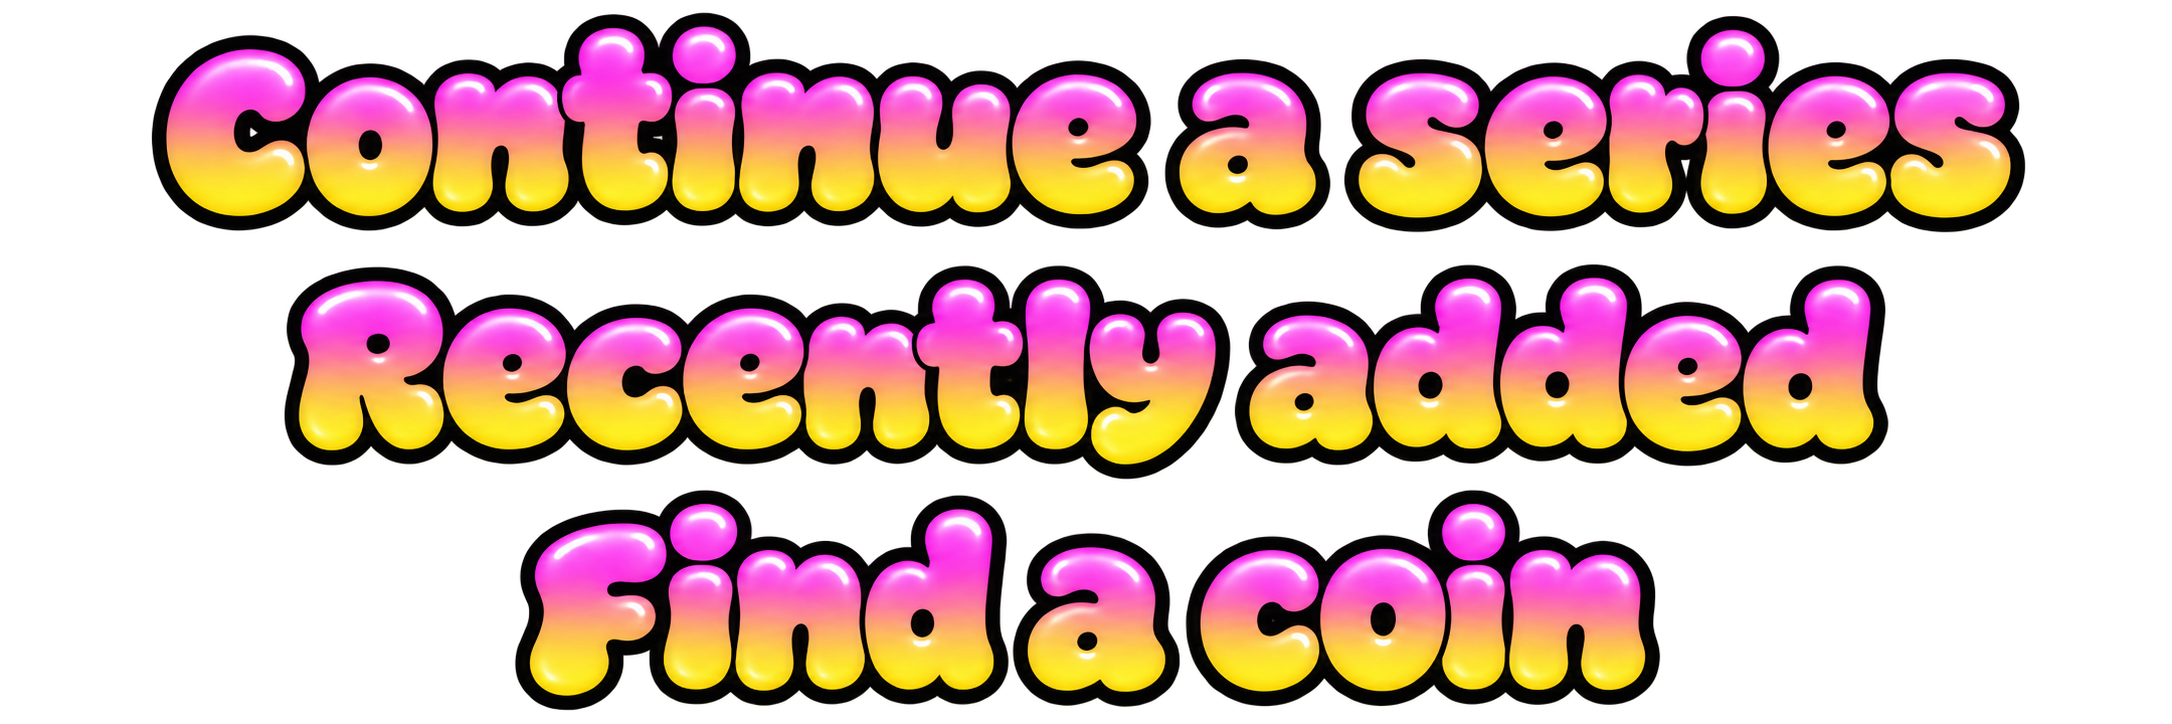
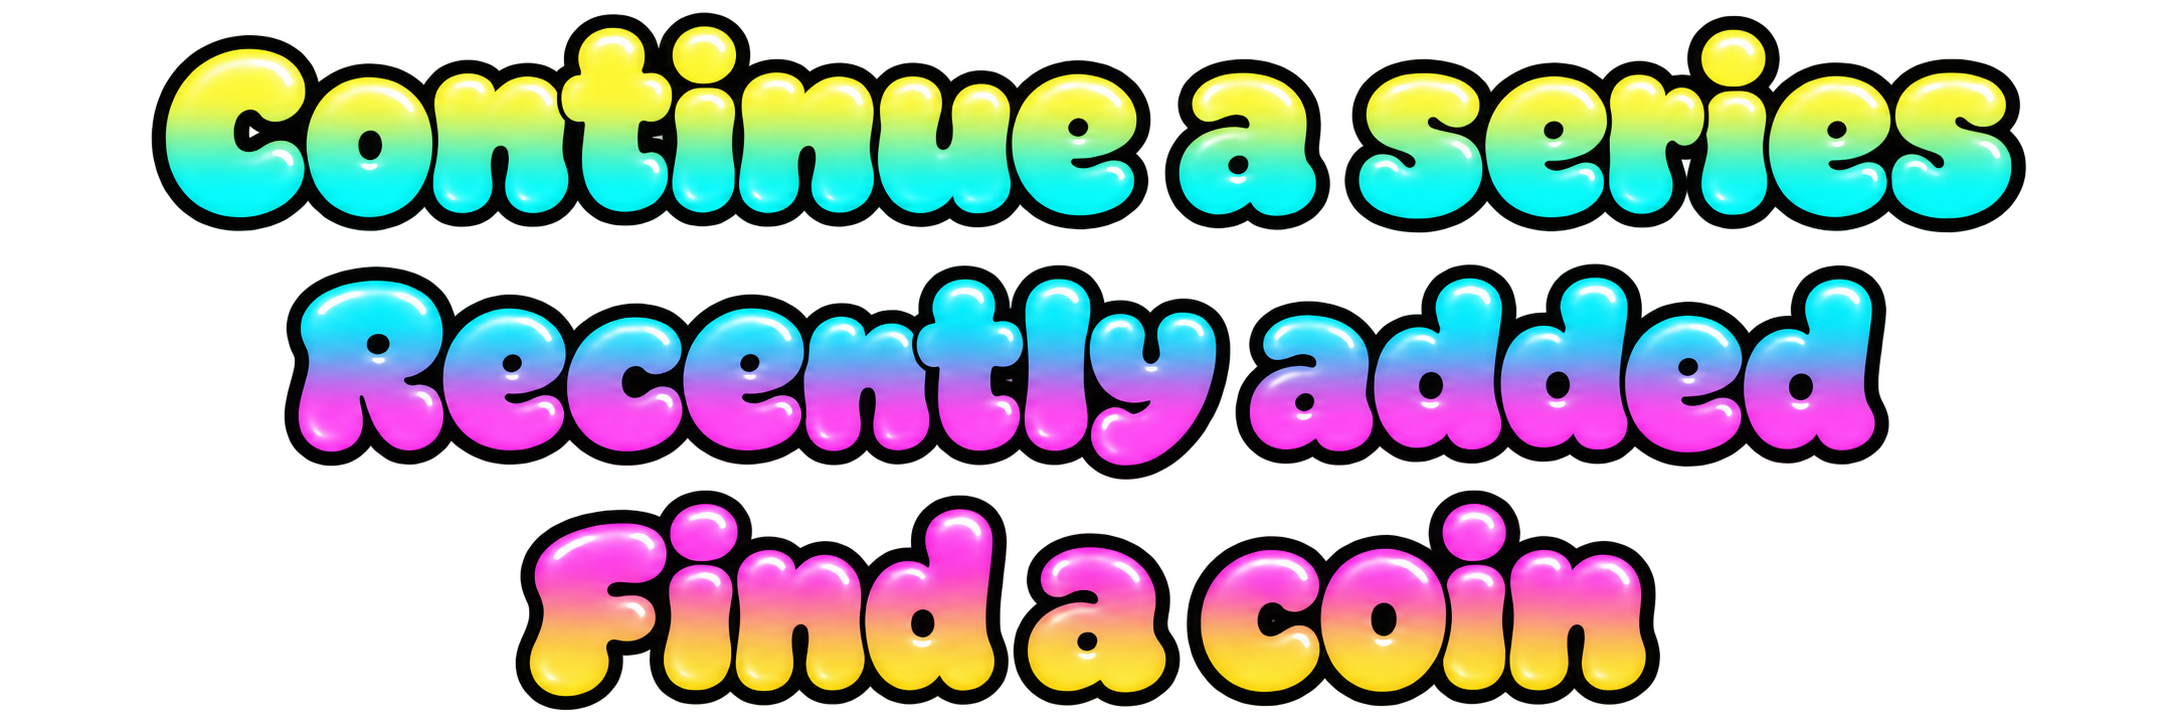
Restore calm coin labels and unify Pocket Mint visual styles v0.14.29

diff --git a/public/index.html b/public/index.html
@@ -184,7 +184,7 @@
     <section id="collectionView" class="view"><div class="sectionHead"><h2 id="collectionTitle">Collection</h2></div><div class="segmented collectionTabs"><button data-mintfilter="owned" class="on">All</button><button data-mintfilter="favourite">Favourites</button><button data-mintfilter="duplicates">Duplicates</button></div><input id="collectionSearch" class="search" type="search" placeholder="Search collection" aria-label="Search collection"><div class="listMeta"><span id="collectionCount">0 coins</span><button type="button" class="textButton">Sort</button></div><div id="myMintList" class="coinList coinGrid"></div></section>
 
     <section id="helpView" class="view pm-page"><div class="sectionHead"><h2>Help &amp; feedback</h2></div><div class="menuCard"><button type="button" id="helpConditionGuide"><span aria-hidden="true">⌕</span><b>Coin Condition Guide</b><i aria-hidden="true">›</i></button></div><p class="muted">Browse Australian coin grades and compare conditions before recording your own estimate.</p></section>
-    <section id="myMintView" class="view"><div class="sectionHead"><h2><span class="sr-only">My Mint</span><svg class="pm-title-art pm-title-mint" viewBox="361 297 812 223" aria-hidden="true" focusable="false"><image href="artwork/headings/neon-titles.png" width="1536" height="1024"/></svg></h2></div><div class="menuCard"><button data-open-collection="owned"><span class="pm-menu-icon pm-icon-owned" aria-hidden="true"></span><b>My collection</b><i>›</i></button><button data-nav="wishlistView"><span class="pm-menu-icon pm-icon-wishlist" aria-hidden="true"></span><b>Wishlist</b><i>›</i></button><button data-open-collection="favourite"><span class="pm-menu-icon pm-icon-favourites" aria-hidden="true"></span><b>Favourites</b><i>›</i></button><button data-open-collection="duplicates"><span class="pm-menu-icon pm-icon-duplicates" aria-hidden="true"></span><b>Duplicates</b><i>›</i></button><button data-nav="statsView"><span class="pm-menu-icon pm-icon-stats" aria-hidden="true"></span><b>Stats</b><i>›</i></button><button disabled><span class="pm-menu-icon pm-icon-swaps" aria-hidden="true"></span><b>Swaps</b><small>Later</small><i>›</i></button></div><h3 class="menuHeading">Pocket Mint</h3><div class="menuCard"><button data-nav="settingsView"><span class="pm-menu-icon pm-icon-settings" aria-hidden="true"></span><b>Settings</b><i>›</i></button><button data-nav="helpView"><span class="pm-menu-icon pm-icon-help" aria-hidden="true"></span><b>Help &amp; feedback</b><i>›</i></button><button data-static-page="About Pocket Mint"><span class="pm-menu-icon pm-icon-about" aria-hidden="true"></span><b>About Pocket Mint</b><i>›</i></button></div><p class="versionNote">Pocket Mint v0.14.28</p></section>
+    <section id="myMintView" class="view"><div class="sectionHead"><h2><span class="sr-only">My Mint</span><svg class="pm-title-art pm-title-mint" viewBox="361 297 812 223" aria-hidden="true" focusable="false"><image href="artwork/headings/neon-titles.png" width="1536" height="1024"/></svg></h2></div><div class="menuCard"><button data-open-collection="owned"><span class="pm-menu-icon pm-icon-owned" aria-hidden="true"></span><b>My collection</b><i>›</i></button><button data-nav="wishlistView"><span class="pm-menu-icon pm-icon-wishlist" aria-hidden="true"></span><b>Wishlist</b><i>›</i></button><button data-open-collection="favourite"><span class="pm-menu-icon pm-icon-favourites" aria-hidden="true"></span><b>Favourites</b><i>›</i></button><button data-open-collection="duplicates"><span class="pm-menu-icon pm-icon-duplicates" aria-hidden="true"></span><b>Duplicates</b><i>›</i></button><button data-nav="statsView"><span class="pm-menu-icon pm-icon-stats" aria-hidden="true"></span><b>Stats</b><i>›</i></button><button disabled><span class="pm-menu-icon pm-icon-swaps" aria-hidden="true"></span><b>Swaps</b><small>Later</small><i>›</i></button></div><h3 class="menuHeading">Pocket Mint</h3><div class="menuCard"><button data-nav="settingsView"><span class="pm-menu-icon pm-icon-settings" aria-hidden="true"></span><b>Settings</b><i>›</i></button><button data-nav="helpView"><span class="pm-menu-icon pm-icon-help" aria-hidden="true"></span><b>Help &amp; feedback</b><i>›</i></button><button data-static-page="About Pocket Mint"><span class="pm-menu-icon pm-icon-about" aria-hidden="true"></span><b>About Pocket Mint</b><i>›</i></button></div><p class="versionNote">Pocket Mint v0.14.29</p></section>
 
     <section id="settingsView" class="view">
       <div class="sectionHead"><div><div class="eyebrow">PERSONALISE &amp; PORTABILITY</div><h2>Settings</h2></div></div>

diff --git a/public/pm-headings.css b/public/pm-headings.css
@@ -30,30 +30,40 @@
 :root body .view:not(#homeView) .sectionHead{border-bottom:0;box-shadow:none}
 :root body .menuCard button{grid-template-columns:38px 1fr auto auto}
 
-/* Dynamic catalogue names and section headings share the logo concept without
-   rasterising catalogue text or adding another image library. */
+/* Neon is reserved for navigation and section headings. Coin information and
+   names keep their established dark, rounded typography on cream cards. */
+:root{--pm-heading-pink:#ff36e9;--pm-heading-yellow:#fffa55;--pm-heading-aqua:#00e9e9;--pm-heading-gold:#ffcf42}
 @supports ((background-clip:text) or (-webkit-background-clip:text)) {
-  :root body :is(.view,#coinDialog,#conditionGuide,#seriesCelebration) :is(h2,h3,h4,.findHero b,.pm-series-copy>b):not(:has(.pm-title-art)) {
-    --pm-heading-start:#ff36e9;--pm-heading-end:#ffcf42;
+  :root body :is(.view,#conditionGuide) :is(.sectionHead h2,.sectionTitle h3,.menuHeading,.statsAlbums>h3,.cg-header h2):not(:has(.pm-title-art)) {
+    --pm-heading-start:var(--pm-heading-pink);--pm-heading-end:var(--pm-heading-gold);
     background-image:linear-gradient(180deg,var(--pm-heading-start) 12%,var(--pm-heading-end) 90%);
     background-clip:text;-webkit-background-clip:text;color:transparent;
     -webkit-text-stroke:.55px #070914;paint-order:stroke fill;text-shadow:none;
   }
-  :root body :is(#myMintView,#conditionGuide) :is(h2,h3,h4,.findHero b,.pm-series-copy>b):not(:has(.pm-title-art)) {
-    --pm-heading-start:#fffa55;--pm-heading-end:#00e9e9;
+  :root body :is(#myMintView,#statsView,#conditionGuide) :is(.sectionHead h2,.menuHeading,.statsAlbums>h3,.cg-header h2):not(:has(.pm-title-art)) {
+    --pm-heading-start:var(--pm-heading-yellow);--pm-heading-end:var(--pm-heading-aqua);
   }
-  :root body .view .coinCard .coinCopy h3 {
-    -webkit-text-stroke:.45px #070914;line-height:1.4;padding-block:2px;
+  :root body :is(#collectionView,#helpView,#seriesView) .sectionHead h2:not(:has(.pm-title-art)) {
+    --pm-heading-start:var(--pm-heading-aqua);--pm-heading-end:var(--pm-heading-pink);
+  }
+  :root body :is(#wishlistView,#milestonesView,#settingsView) .sectionHead h2:not(:has(.pm-title-art)) {
+    --pm-heading-start:var(--pm-heading-pink);--pm-heading-end:var(--pm-heading-aqua);
   }
 }
+:root body .view:is(#homeView,#findView,#collectionView,#wishlistView,#seriesView) .coinCard .coinCopy h3,
+:root body #coinDialog .pm-detail-heading h2 {
+  background:none;color:#18192f;-webkit-text-stroke:0;text-shadow:none;
+  font-family:'Pocket Mint Bubble',ui-rounded,system-ui,sans-serif;font-weight:400;line-height:1.3;
+}
+:root body .pm-series-copy>b {background:none;color:#18192f;-webkit-text-stroke:0;text-shadow:none;font-family:inherit;font-weight:700;line-height:1.3}
 @media(forced-colors:active){
-  :root body :is(.view,#coinDialog,#conditionGuide,#seriesCelebration) :is(h2,h3,h4,.findHero b,.pm-series-copy>b):not(:has(.pm-title-art)){
+  :root body :is(.view,#conditionGuide) :is(.sectionHead h2,.sectionTitle h3,.menuHeading,.statsAlbums>h3,.cg-header h2):not(:has(.pm-title-art)){
     background:none;color:CanvasText;-webkit-text-stroke:0;
   }
 }
 
-:root body :is(.findHero b,.pm-series-copy>b){font-family:"Pocket Mint Bubble",ui-rounded,system-ui,sans-serif;font-weight:400;line-height:1.4}
-
 .pm-title-continue{width:225px;max-width:100%}.pm-title-recent{width:190px;max-width:100%}.pm-title-home-find{width:140px;max-width:100%}
 :root body #homeView .sectionTitle h3{min-width:0;flex:1;margin-bottom:0}
 @media(max-width:380px){.pm-title-continue{width:200px}.pm-title-recent{width:175px}.pm-title-home-find{width:125px}}
+
+:root body .view:is(#homeView,#findView,#collectionView,#wishlistView,#seriesView) .coinCard .coinCopy .meta{color:#54456b}

diff --git a/public/sw.js b/public/sw.js
@@ -1,4 +1,4 @@
-const CACHE = "pocket-mint-v0.14.28-neon-headings";
+const CACHE = "pocket-mint-v0.14.29-neon-headings";
 const STATIC = ["./artwork/headings/section-titles.png","./pm-headings.css","./artwork/headings/neon-titles.png","./fonts/coiny-latin-400.woff2","./fonts/coiny-LICENSE.txt","./frames/icon-stats.svg","./frames/icon-swaps.svg","./frames/icon-settings.svg","./frames/icon-help.svg","./frames/icon-about.svg","./fonts/short-stack-latin-400.woff2", "./fonts/short-stack-LICENSE.txt", "./frames/header-scribble.svg", "./", "./index.html", "./styles.css", "./progress.css", "./identify.css", "./pm-visual.css", "./pm-frames.css", "./frames/album-wobble.svg", "./frames/coin-wobble.svg", "./frames/icon-duplicates.svg", "./frames/icon-favourites.svg", "./frames/icon-owned.svg", "./frames/icon-wishlist.svg", "./frames/neon-wobble.svg", "./frames/plaque-wobble.svg", "./condition-data.js", "./condition-guide.js", "./condition-editor.js", "./condition-guide.css", "./series.js", "./camera-entry.js", "./auto-coin-photo.js", "./coin-photo-editor.js", "./coin-photo-editor.css", "./pm-stars.svg", "./pm-crescent.svg", "./pm-wordmark.webp", "./characters/grim-companion.webp", "./characters/grim-walk.webp", "./characters/grim-walk-b.webp", "./characters/grim-inspect.webp", "./characters/grim-walk-sheet.webp", "./characters/grim-clue-sheet.webp", "./characters/noxel-companion.webp", "./characters/noxel-scuttle.webp", "./characters/noxel-scuttle-b.webp", "./characters/noxel-peek.webp", "./characters/noxel-walk-sheet.webp", "./characters/noxel-discovery-sheet.webp", "./characters/grim-noxel-high-five.webp", "./companions.js", "./app.js", "./identification-report.js", "./progress.js", "./identify.js", "./batch-identify.js", "./batch-identification.js", "./batch-detection.js", "./batch-identify.css", "./catalogue.json", "./catalogue-v2.json", "./manifest.webmanifest", "./manifest-seal.webmanifest", "./manifest-spiral.webmanifest", "./manifest-character.webmanifest", "./icon-192.png", "./icon-512.png", "./icons/seal-192.png", "./icons/seal-512.png", "./icons/spiral-192.png", "./icons/character-192.png", "./icons/character-512.png"];
 
 importScripts("./condition-data.js");

diff --git a/public/pm-frames.css b/public/pm-frames.css
@@ -448,3 +448,18 @@ body .view .menuCard button {
   border-width:18px;border-image-repeat:stretch round;border-image-slice:9% 15%;
   background:linear-gradient(150deg,#fff0d5,#ead7b4);background-clip:padding-box;
 }
+
+/* A single coin-card frame across Home, Browse, Collection, Wishlist and Series.
+   Preserve Home's drawn asset and adapt it to each existing card footprint. */
+:root body .view .coinCard {
+  position:relative;isolation:isolate;background:transparent;border-color:transparent;
+  box-shadow:none;overflow:visible;
+}
+:root body .view .coinCard::before {
+  content:'';position:absolute;inset:0;z-index:-1;pointer-events:none;
+  border:0;border-radius:0;border-image:none;
+  background:url('frames/coin-wobble.svg') center / 100% 100% no-repeat;
+  filter:drop-shadow(0 2px 0 #8d673d60);
+}
+/* Companions may visit a coin without adding a second, rectangular neon frame. */
+:root body .view .coinCard.pm-companion-spotlight {outline:none;box-shadow:none}

diff --git a/public/app.js b/public/app.js
@@ -1,6 +1,6 @@
 const DB_NAME = "PocketMintPhase0";
 const DB_VERSION = 3;
-const APP_VERSION = "0.14.28";
+const APP_VERSION = "0.14.29";
 const VIEW_IDS = new Set(["homeView", "findView", "wishlistView", "statsView", "collectionView", "myMintView", "settingsView", "seriesView", "milestonesView", "helpView"]);
 const APP_ICON_KEY = "pocketMintAppIcon";
 const APP_ICONS = {

diff --git a/docs/NEON_HEADINGS.md b/docs/NEON_HEADINGS.md
@@ -11,3 +11,7 @@ No Identify, camera, catalogue, condition storage, or batch recognition changes 
 Extend the two-colour rounded heading concept to Home section titles, Find call-to-action title, dynamic coin names and supporting headings. CSS text remains accessible/searchable, with black stroke, forced-colour fallback and unchanged sizes. Main title artwork remains unchanged.
 
 Fix series drawings moving/fading when a companion performs an idle notice: exclude series-card ::after from the companion notice animation, because it holds the illustration. Normal companion walk, patrol and notices on other cards remain intact.
+
+## v0.14.29
+
+Keep neon two-colour headings varied within the Pocket Mint palette. Restore dark rounded coin names and quiet series labels; restrict gradients to navigation/section headings. Home, Browse, Collection, Wishlist and Series share Home’s original wobbly coin frame, including tall records. Companion visits no longer add a second rectangular cyan border around coin cards. Existing focus indications on interactive buttons remain intact. Presentation only; no recognition, catalogue or persistence changes.
